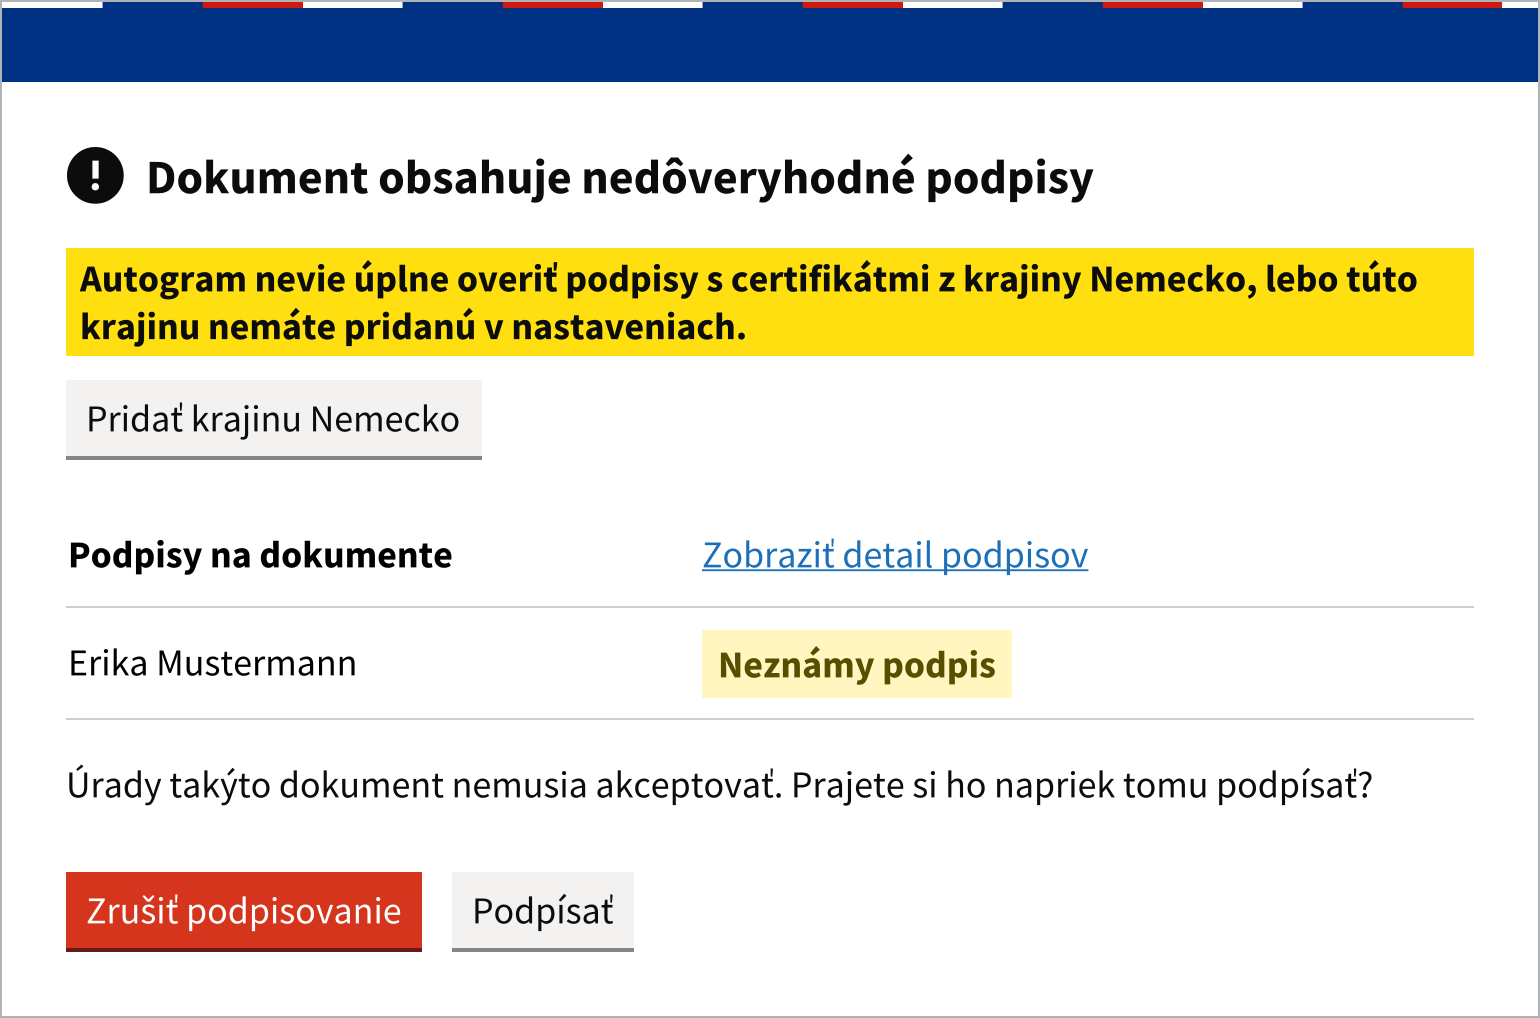
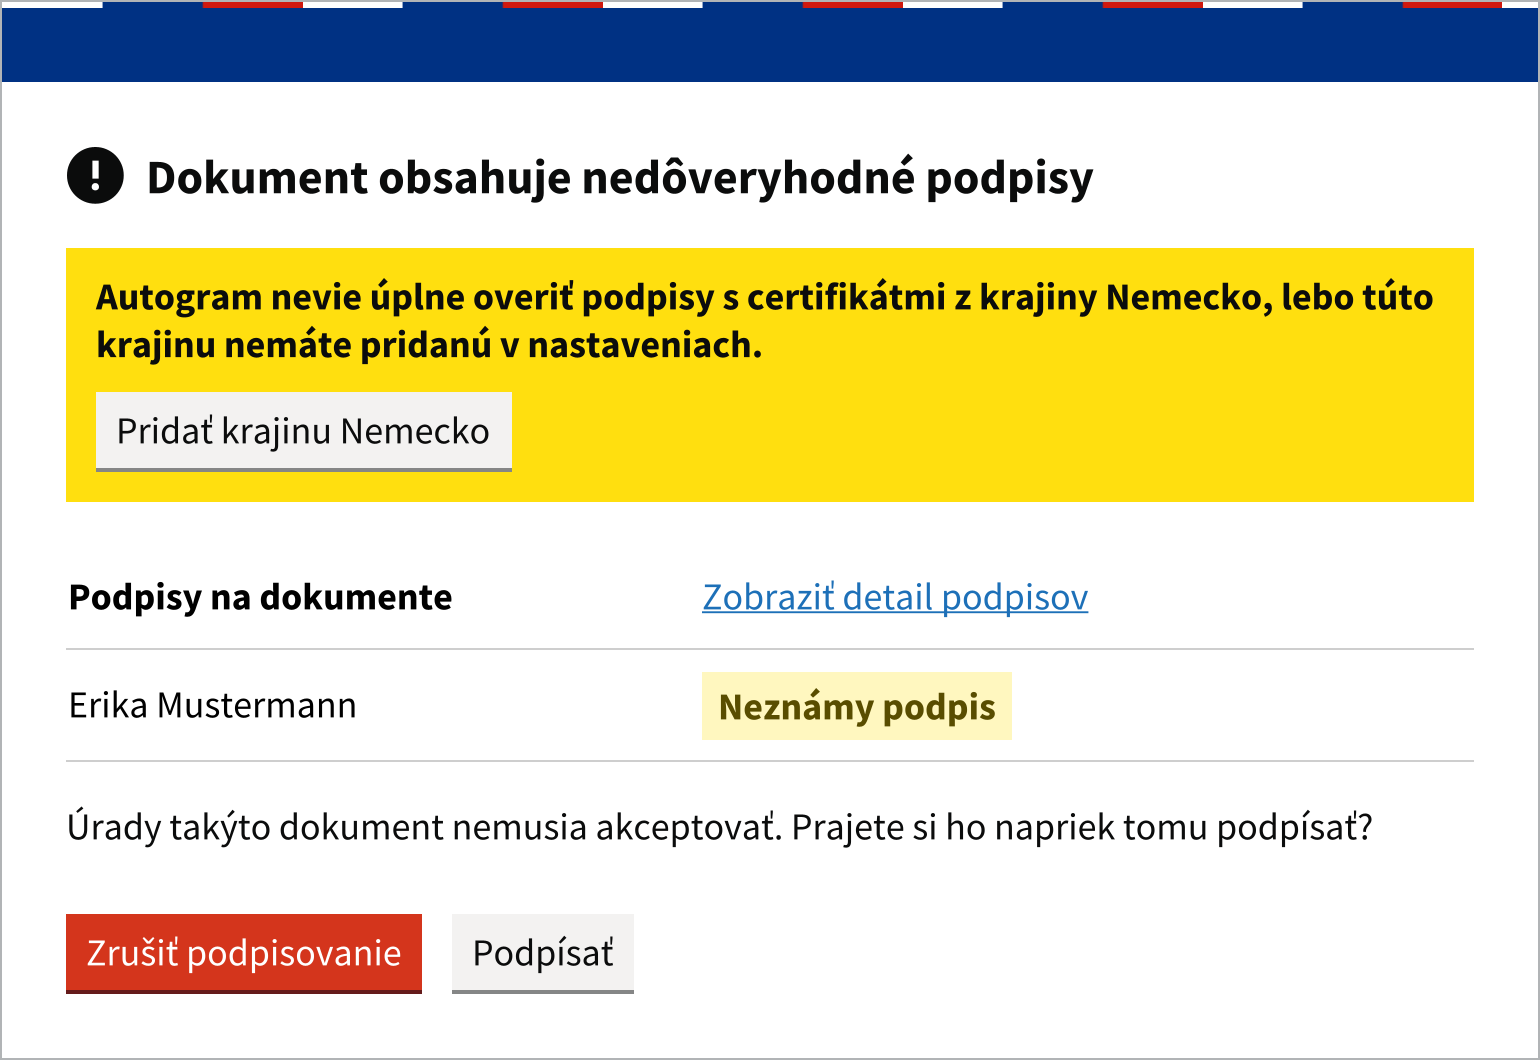
move the button that adds the countries into the yellow box

diff --git a/src/main/resources/digital/slovensko/autogram/ui/gui/idsk.css b/src/main/resources/digital/slovensko/autogram/ui/gui/idsk.css
@@ -1405,7 +1405,16 @@ TextFlow.autogram-body-s {
 
 .autogram-countries-turned-off {
   -fx-spacing: 12px;
-  -fx-padding: 0 0 12px 0;
+  -fx-padding: 12px 15px 27px 15px;
+  -fx-background-color: -autogram-warning-color;
+  -fx-background-insets: 0 0 12px 0;
+}
+
+/* the usual yellow focus would not show on the yellow background */
+.autogram-countries-turned-off .autogram-button:focused {
+  -fx-border-color: -autogram-text-colour;
+  -fx-border-width: 3px;
+  -fx-padding: 4px 7px 6px 7px;
 }
 
 .autogram-label {

diff --git a/src/main/java/digital/slovensko/autogram/ui/gui/GUIValidationUtils.java b/src/main/java/digital/slovensko/autogram/ui/gui/GUIValidationUtils.java
@@ -72,14 +72,15 @@ public class GUIValidationUtils {
             children.add(createCountriesTurnedOffWarning(resources, countries, turnOnTrustedLists));
     }
 
-    /** The warning with a button under it, which adds the countries in the settings. */
+    /** The warning with a button in it, which adds the countries in the settings. */
     private static Node createCountriesTurnedOffWarning(ResourceBundle resources, List<Country> countries,
             Consumer<List<Country>> turnOnTrustedLists) {
+        var message = new TextFlow(styled(new Text(countriesTurnedOffWarning(resources, countries)),
+                "autogram-heading-s"));
         var button = styled(new Button(addCountriesButton(resources, countries)), "autogram-button",
                 "autogram-button--secondary");
         button.setOnAction(event -> turnOnTrustedLists.accept(countries));
-        return styled(new VBox(createWarningText(countriesTurnedOffWarning(resources, countries)), button),
-                "autogram-countries-turned-off");
+        return styled(new VBox(message, button), "autogram-countries-turned-off");
     }
 
     /** Only the number of lists, the countries could fill the window. */

diff --git a/src/test/java/digital/slovensko/autogram/ui/gui/TrustedListsWarningTest.java b/src/test/java/digital/slovensko/autogram/ui/gui/TrustedListsWarningTest.java
@@ -101,9 +101,9 @@ class TrustedListsWarningTest {
                 GUIValidationUtils.countriesTurnedOffWarning(SK, List.of(belgium)));
         assertEquals("Autogram nevie úplne overiť podpisy s certifikátmi z krajín Belgicko, Česko, lebo tieto krajiny nemáte pridané v nastaveniach.",
                 GUIValidationUtils.countriesTurnedOffWarning(SK, List.of(belgium, czechia)));
-        assertEquals("Autogram cannot fully validate signatures with certificates from Belgium, because Belgium is not in your settings.",
+        assertEquals("Autogram cannot fully validate signatures with certificates from Belgium, because the country is not in your settings.",
                 GUIValidationUtils.countriesTurnedOffWarning(EN, List.of(belgium)));
-        assertEquals("Autogram cannot fully validate signatures with certificates from Belgium, Czechia, because these countries are not in your settings.",
+        assertEquals("Autogram cannot fully validate signatures with certificates from Belgium, Czechia, because the countries are not in your settings.",
                 GUIValidationUtils.countriesTurnedOffWarning(EN, List.of(belgium, czechia)));
     }
 

diff --git a/docs/docs/sk/troubleshooting.md b/docs/docs/sk/troubleshooting.md
@@ -78,7 +78,7 @@ Autogram predvolene podpisuje iba XML formuláre slovenskej verejnej správy. In
 
 ### Podpisy sa nedajú overiť
 
-Ak Autogram hlási chybu pri sťahovaní dôveryhodných zoznamov, nemá prístup na internet alebo je server s dôveryhodnými zoznamami nedostupný. Skontrolujte pripojenie a dokument otvorte znova. Ak hlási, že sa nepodarilo stiahnuť iba niektoré zoznamy, je nedostupný server niektorej krajiny alebo je pripojenie na internet veľmi pomalé. Skúste to neskôr. Ak Autogram hlási, že krajinu nemáte pridanú v nastaveniach, kliknite na tlačidlo pod upozornením, napríklad **Pridať krajinu Nemecko**. Viac je na stránke [Overenie podpisov](verification.md#doveryhodne-zoznamy).
+Ak Autogram hlási chybu pri sťahovaní dôveryhodných zoznamov, nemá prístup na internet alebo je server s dôveryhodnými zoznamami nedostupný. Skontrolujte pripojenie a dokument otvorte znova. Ak hlási, že sa nepodarilo stiahnuť iba niektoré zoznamy, je nedostupný server niektorej krajiny alebo je pripojenie na internet veľmi pomalé. Skúste to neskôr. Ak Autogram hlási, že krajinu nemáte pridanú v nastaveniach, kliknite na tlačidlo v upozornení, napríklad **Pridať krajinu Nemecko**. Viac je na stránke [Overenie podpisov](verification.md#doveryhodne-zoznamy).
 
 ## Inštalácia a aktualizácie
 

diff --git a/docs/docs/sk/verification.md b/docs/docs/sk/verification.md
@@ -52,7 +52,7 @@ Tlačidlom **Zobraziť technické detaily** otvoríte úplnú správu o overení
 
 Autogram overuje podpisy podľa dôveryhodných zoznamov Európskej únie, ktoré sťahuje z internetu. Predvolene overuje podpisy z certifikátov poskytovateľov zo Slovenska, Česka, Rakúska, Poľska, Maďarska, Belgicka, Holandska a Španielska. Ďalšie krajiny zapnete v [Nastaveniach](settings.md#overovanie-podpisov). Každá ďalšia krajina overovanie spomalí.
 
-Ak podpis vydal poskytovateľ z krajiny, ktorej dôveryhodný zoznam nemáte zapnutý, Autogram ho nevie úplne overiť a nad podpismi na to upozorní. Kliknite na tlačidlo pod upozornením, napríklad **Pridať krajinu Nemecko** (pri viacerých krajinách **Pridať tieto krajiny**): Autogram krajinu pridá v nastaveniach a otvorené dokumenty overí znova.
+Ak podpis vydal poskytovateľ z krajiny, ktorej dôveryhodný zoznam nemáte zapnutý, Autogram ho nevie úplne overiť a nad podpismi na to upozorní. Kliknite na tlačidlo v upozornení, napríklad **Pridať krajinu Nemecko** (pri viacerých krajinách **Pridať tieto krajiny**): Autogram krajinu pridá v nastaveniach a otvorené dokumenty overí znova.
 
 ![Upozornenie, že krajinu nemáte pridanú v nastaveniach, s tlačidlom, ktoré ju pridá](/assets/images/screenshots/sk/signed-document-country-off.png)
 

diff --git a/docs/docs/en/verification.md b/docs/docs/en/verification.md
@@ -51,7 +51,7 @@ Click **Show signature details**. For each signature you see:
 
 Autogram validates signatures against the European Union trusted lists, which it downloads from the internet. By default it validates signatures with certificates from providers in Slovakia, Czechia, Austria, Poland, Hungary, Belgium, the Netherlands and Spain. You can turn on more countries in [Settings](settings.md#signature-validation). Each additional country slows down validation.
 
-If a signature was issued by a provider from a country whose trusted list is turned off, Autogram cannot fully validate it and says so above the signatures. Click the button below the warning, for example **Add Germany** (**Add these countries** for more countries): Autogram adds the country in the settings and validates open documents again.
+If a signature was issued by a provider from a country whose trusted list is turned off, Autogram cannot fully validate it and says so above the signatures. Click the button in the warning, for example **Add Germany** (**Add these countries** for more countries): Autogram adds the country in the settings and validates open documents again.
 
 ![Warning that a country is not in the settings, with a button that adds it](/assets/images/screenshots/en/signed-document-country-off.png)
 

diff --git a/docs/docs/en/troubleshooting.md b/docs/docs/en/troubleshooting.md
@@ -78,7 +78,7 @@ By default, Autogram signs only Slovak government XML forms. You can sign other 
 
 ### Signatures cannot be validated
 
-If Autogram reports an error while downloading trusted lists, it has no internet access or the server with the trusted lists is unavailable. Check your connection and open the document again. If it reports that only some lists could not be downloaded, the server of a country is unavailable or the internet connection is very slow. Try again later. If Autogram says that a country is not in your settings, click the button below the warning, for example **Add Germany**. See [Verifying signatures](verification.md#trusted-lists).
+If Autogram reports an error while downloading trusted lists, it has no internet access or the server with the trusted lists is unavailable. Check your connection and open the document again. If it reports that only some lists could not be downloaded, the server of a country is unavailable or the internet connection is very slow. Try again later. If Autogram says that a country is not in your settings, click the button in the warning, for example **Add Germany**. See [Verifying signatures](verification.md#trusted-lists).
 
 ## Installation and updates
 

diff --git a/docs/docs/sk/warnings.md b/docs/docs/sk/warnings.md
@@ -25,7 +25,7 @@ Ak dokument už obsahuje podpis, ktorý je neplatný alebo ho nie je možné ove
 - **Zrušiť podpisovanie:** dokument nepodpíšete,
 - **Podpísať:** dokument napriek tomu podpíšete.
 
-Ak podpis vydal poskytovateľ z krajiny, ktorej dôveryhodný zoznam nemáte zapnutý, upozornenie to uvedie. Kliknite na tlačidlo pod ním, napríklad **Pridať krajinu Nemecko**: Autogram krajinu pridá v nastaveniach a podpisy overí znova. Potom kliknite na **Podpísať** ešte raz.
+Ak podpis vydal poskytovateľ z krajiny, ktorej dôveryhodný zoznam nemáte zapnutý, upozornenie to uvedie. Kliknite na tlačidlo v ňom, napríklad **Pridať krajinu Nemecko**: Autogram krajinu pridá v nastaveniach a podpisy overí znova. Potom kliknite na **Podpísať** ešte raz.
 
 ![Upozornenie s tlačidlom, ktoré pridá krajinu](/assets/images/screenshots/sk/warning-invalid-signatures-country-off.png)
 

diff --git a/docs/docs/en/warnings.md b/docs/docs/en/warnings.md
@@ -25,7 +25,7 @@ Authorities may not accept such a document. **Show signature details** shows the
 - **Cancel signing:** you do not sign the document,
 - **Sign:** you sign the document anyway.
 
-If a signature was issued by a provider from a country whose trusted list is turned off, the warning says so. Click the button below it, for example **Add Germany**: Autogram adds the country in the settings and validates the signatures again. Then click **Sign** once more.
+If a signature was issued by a provider from a country whose trusted list is turned off, the warning says so. Click the button in it, for example **Add Germany**: Autogram adds the country in the settings and validates the signatures again. Then click **Sign** once more.
 
 ![Warning with a button that adds the country](/assets/images/screenshots/en/warning-invalid-signatures-country-off.png)
 
